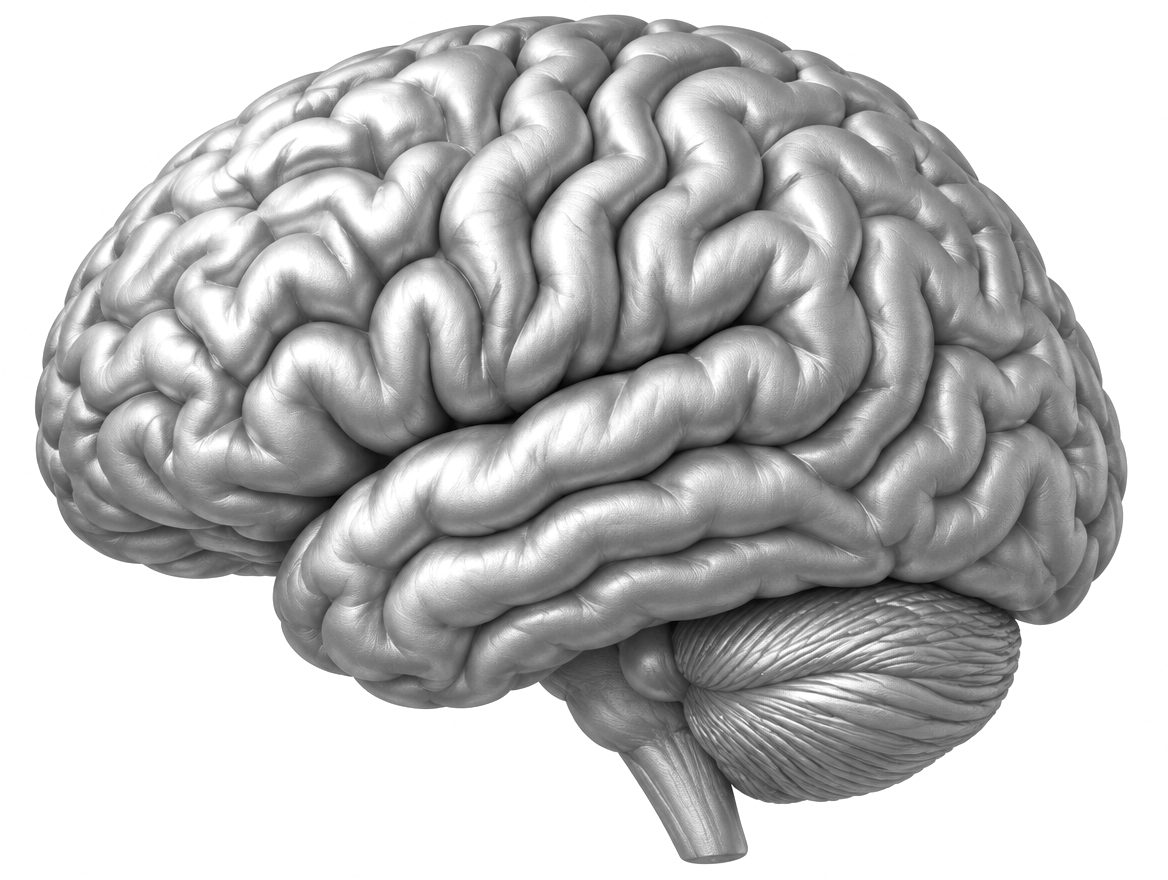
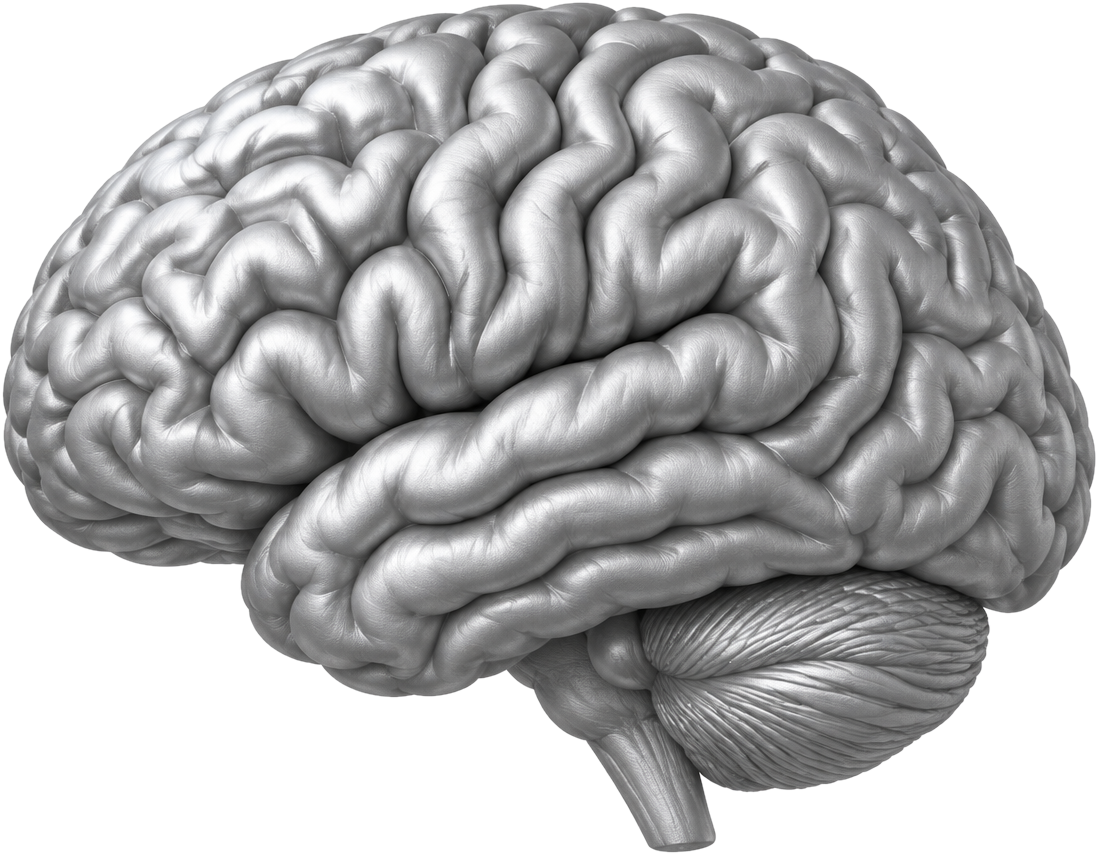
disc_brain: crisp disc, solid brain matte (flood-fill cutout mode), centred term, sizes from still checks; S7 0.753
Claude-Session: https://claude.ai/code/session_011miDLuxVLdhNA7r9YMcV7p

diff --git a/workflows/video/library/templates/disc_brain.py b/workflows/video/library/templates/disc_brain.py
@@ -15,10 +15,10 @@ DEFAULTS = {
     'definition': 'The endowment effect is overvaluing things just because you own them',
     'banner': {'left_num': '19', 'left_word': 'nineteen', 'right_num': '26', 'right_word': 'twenty-six',
                'l1': 'PERCEPTIONS', 'l2': '2024 Publication 064', 'r1': '38°EAST LONGITUDE', 'r2': '38°4′24″E'},
-    'prop': {'file': 'brain_side.png', 'w': 1168, 'h': 880, 'width': 417},
+    'prop': {'file': 'brain_side.png', 'w': 1098, 'h': 855, 'width': 480},
     'palette': 'original',
     'layout': {'kicker': [130, 742, 345], 'term': [373, 1407, 778], 'accent': [656, 1426, 770], 'kicker_size': 94,
-               'term_size': 94, 'accent_size': 128, 'disc': [540, 960, 724], 'disc_size': 511, 'prop': [540, 955, 700],
+               'term_size': 94, 'accent_size': 128, 'disc': [540, 960, 724], 'disc_size': 590, 'prop': [540, 955, 700],
                'graph': [536, 998, 1294], 'graph_width': 1340, 'disc_color': '#34B258', 'ink': '#0F0A09'},
     'timing': {'kicker': (0, 10), 'disc': (0, 20), 'burst': (18, 28), 'split': (17, 29), 'term': (17, 32), 'accent': (20, 30),
                'scribble': (22, 43)},
@@ -71,7 +71,7 @@ def build(proj, name='disc_brain', **params):
     k = c.text('kicker', W['kicker'], 0, end, sans, Lo['kicker_size'], ink, tracking=-80, three_d_layer=True,
                reveal=S.word_reveal(T['kicker'][0] * F, T['kicker'][1] * F))
     c.transform(k, pos=Lo['kicker'])
-    tm = c.text('term', W['term'], T['term'][0] * F, end, sans, Lo['term_size'], ink, tracking=-80, three_d_layer=True,
+    tm = c.text('term', W['term'], T['term'][0] * F, end, sans, Lo['term_size'], ink, tracking=-80, three_d_layer=True, justify=7415,
                 reveal=S.char_reveal(T['term'][0] * F, T['term'][1] * F))
     c.transform(tm, pos=Lo['term'])
     ac = c.text('accent', W['term_accent'], T['accent'][0] * F, end, serif, Lo['accent_size'], ink, tracking=-80, three_d_layer=True,
@@ -103,8 +103,9 @@ def build(proj, name='disc_brain', **params):
     c.effects(pl, P('BCC Halftone', 'BCC Halftone', children=[P('Cell', 'BCC Halftone-c', v=3.7), P('Ink', 'BCC Halftone-i', v=hexc('#1B1B1B')),
                                                               P('Paper', 'BCC Halftone-p', v=hexc('#E8E8E8'))]),
               drop_shadow('#000000', 45, 196, 27, 29))
-    dk = c.shape('disc', 0, end, [ellipse_group(1, 1, Lo['disc_color'])], three_d_layer=True)
-    c.transform(dk, pos=Lo['disc'], scale=K((T['disc'][0] * F, [0, 0, 100], (0.333, 0, 0, 1)), (T['disc'][1] * F, [Lo['disc_size'] * 100] * 2 + [100])))
+    ds = Lo['disc_size']  # draw at full size and scale 0 -> 100 (a 1 px circle scaled up rasterises soft)
+    dk = c.shape('disc', 0, end, [ellipse_group(ds, ds, Lo['disc_color'])], three_d_layer=True)
+    c.transform(dk, pos=Lo['disc'], anchor=[0, 0], scale=K((T['disc'][0] * F, [0, 0, 100], (0.333, 0, 0, 1)), (T['disc'][1] * F, [100, 100, 100])))
     gf = proj.still('graph_paper.png', 745, 745)
     gl = c.footage(gf, 0, end, three_d_layer=True, blend=MULTIPLY)
     gs = 100 * Lo['graph_width'] / 745

diff --git a/workflows/video/library/make_assets.py b/workflows/video/library/make_assets.py
@@ -107,14 +107,26 @@ def census_doc(name='census_doc.png'):
     im.save(os.path.join(OUT, name))
 
 
-def cutout(src, name, trim=True):
-    """Cut a studio shot out of its flat background (colour unmixing, keeps soft shadows semi-transparent), trimmed."""
+def cutout(src, name, trim=True, solid=False, tol=0.06):
+    """Cut a studio shot out of its flat background, trimmed.
+    solid=False: colour unmixing (keeps soft shadows semi-transparent; right for dark objects + contact shadows).
+    solid=True: flood-fill matte - background = near-bg pixels connected to the border, everything else opaque
+    (right for light objects on white, which unmixing would make see-through)."""
     import numpy as np
+    from scipy import ndimage
     im = np.asarray(Image.open(src).convert('RGB')).astype(np.float64) / 255
     bg = np.median(np.concatenate([im[:12].reshape(-1, 3), im[-12:].reshape(-1, 3), im[:, :12].reshape(-1, 3)]), 0)
-    a = np.max(np.maximum((bg - im) / np.maximum(bg, 1e-3), (im - bg) / np.maximum(1 - bg, 1e-3)), axis=2)
-    a = np.clip((a - 0.04) / 0.96, 0, 1)
-    col = np.clip((im - (1 - a[..., None]) * bg) / np.maximum(a[..., None], 1e-3), 0, 1)
+    if solid:
+        near = np.abs(im - bg).max(2) < tol
+        lab, _ = ndimage.label(near)
+        border = set(np.unique(np.concatenate([lab[0], lab[-1], lab[:, 0], lab[:, -1]]))) - {0}
+        bgm = np.isin(lab, list(border))
+        a = ndimage.gaussian_filter((~bgm).astype(float), 0.8)
+        col = im
+    else:
+        a = np.max(np.maximum((bg - im) / np.maximum(bg, 1e-3), (im - bg) / np.maximum(1 - bg, 1e-3)), axis=2)
+        a = np.clip((a - 0.04) / 0.96, 0, 1)
+        col = np.clip((im - (1 - a[..., None]) * bg) / np.maximum(a[..., None], 1e-3), 0, 1)
     out = Image.fromarray(np.dstack([col * 255, a * 255]).astype(np.uint8), 'RGBA')
     if trim:
         out = out.crop(out.getbbox())
